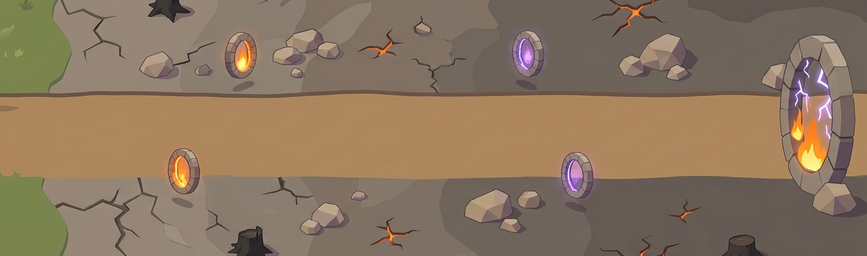
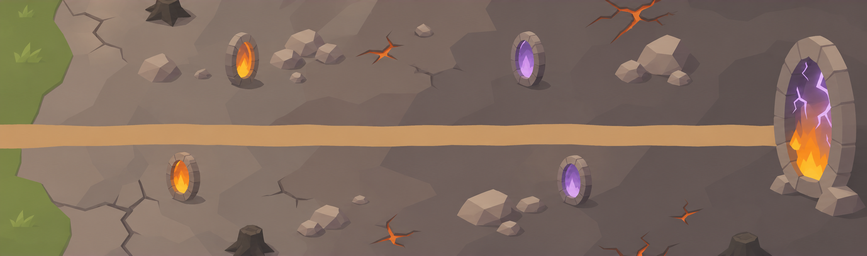
feat(art): 차원문 모험 5단계 지도에 컷페이퍼 아트 적용

diff --git a/.art/PRODUCTION-STATUS.md b/.art/PRODUCTION-STATUS.md
@@ -203,7 +203,7 @@
 | `pve/pve_water_slime_nest.png` | 클라이언트 PR (이슈 #169) | 192x158 RGBA, 원본 캔버스 유지. `PveWaterSlimeNest` 모험 보스. 위와 같은 이유로 다시 그렸다. v1 반려(비 1.59, 옛 1.22 대비 지나치게 낮고 넓음), v2 통과(비 1.21, 폭 99.5%·세로 100%). alignment 7 유지 |
 | `pve/pve_vine_witch.png` | 클라이언트 PR (이슈 #169) | 192x155 RGBA, 원본 캔버스 유지. `PveVineWitch` 모험 보스, 숲의 마녀. 애니메이션풍 인물이라 화풍 자체가 달랐던 것을 다면체 cut-paper 로 다시 그렸다. v1 한 번에 통과 — 빨간 장발·잎 후드·지팡이 실루엣 유지, `facing.py` 기준 눈 중심이 몸통 중심보다 오른쪽(오른쪽 방향 확인). alignment 7 유지 |
 | `Adventure/gate_adventure_icon.png` | 클라이언트 PR (이슈 #232) | **검수 대기, 자리표시 아트.** 차원문 모험(adventure 3) 아이콘, 새 파일이라 `stone_fortress.png` 는 그대로 두고 `GateAdventure.asset` 의 `iconImage` 만 옮겼다. 256x183 RGBA, `agy` 의 `generate_image` 로 초록(#00FF00) 배경에 그려 key 를 제거했다. v1 반려(룬 글자가 새겨졌고 고리 안쪽에 초록이 비쳐 번졌다), v2 통과(룬 없음, 안쪽을 어두운 보라 원판으로 채움). 내용은 세로 183px 전체를 쓰고 폭은 179px 로 옛 256px 보다 좁다 — 옛 아이콘은 가로로 넓은 성이라 비율이 다르다. 4배 확대에서 어두운·밝은 배경 모두 초록 테두리 없음, 불투명 픽셀의 초록 우세 0개 |
-| `Adventure/gate_adventure_map_stage5.png` | 클라이언트 PR (이슈 #232) | **검수 대기, 자리표시 아트.** 차원문 모험 5단계 지도, `Stage5.asset` 의 `backgroundImage` 만 옮겼다. 867x256 RGB 불투명. 생성물이 1376x768 정사각이 아니라 1.79:1 이라 세로 중간 띠 406px(y 170~576)를 잘라 Lanczos 로 867x256 에 맞췄다. 길 중심은 y 약 134(목표 135). 길 두께가 옛 요새 지도보다 두껍다(옛 약 16px, 새 약 80px) — 노드 위치를 Editor 에서 확인해야 한다. v1 반려(어두운 윤곽선이 있다). v2 는 `agy` 가 권한 오류로 끝났지만 그 사이 이미지 3장이 생성돼 있었고, 그중 윤곽선이 없고 색이 평면인 마지막 한 장을 채택했다(나머지 둘은 길이 중앙에서 벗어나거나 색이 번졌다). 윤곽선 없음, 길 위 물체 없음 |
+| `Adventure/gate_adventure_map_stage5.png` | 클라이언트 PR (이슈 #504) | **모험 화면 검수 대기.** 무광 절개면으로 회색 암반을 다시 그리고 불꽃·번개 차원문 다섯 개의 배치를 유지했다. 867×256 RGB, Stage5와 준비 화면 참조 유지. 비교한 가로 단면 6곳에서 길 중심 차이는 최대 2px이고 폭은 기존 79–83px에서 19–21px로 줄었다. |
 | `Adventure/gate_adventure_map_stage6.png` | 클라이언트 PR (이슈 #232) | **검수 대기, 자리표시 아트.** 차원문 모험 6단계(보스) 지도, `Stage6.asset` 의 `backgroundImage` 만 옮겼다. 867x256 RGB 불투명. 위와 같은 방식으로 잘랐다. v1 반려(윤곽선이 있고 줄기가 잘렸다), v2 통과(윤곽선 없음, 오른쪽 끝의 그을린 속 빈 그루터기와 균열의 주황 빛, 길 양옆 차원문 고리 둘) |
 | `Background/Gate/background.png` | 클라이언트 PR (이슈 #235) | **검수 대기, 자리표시 아트.** 차원문 모험(adventure 3) 전투 배경 theme 의 새 파일(`Background/Fortress/background.png` 와 같은 이름·크기). 1254x1254 RGB 바닥 질감. 그을린 갈라진 땅, 대비를 0.62배로 낮췄고 가장자리를 섞어 이어 붙여도 이음매가 안 보이게 했다. `GateBattleTheme.asset` 이 참조하고 `GateAdventure.asset` 의 `battleTheme` 이 이 asset 을 가리킨다. `agy` 생성, 초록 배경 key 제거. Editor 미검증 |
 | `Background/Gate/tree_1.png` | 클라이언트 PR (이슈 #235) | **검수 대기, 자리표시 아트.** 차원문 모험(adventure 3) 전투 배경 theme 의 새 파일(`Background/Fortress/tree_1.png` 와 같은 이름·크기). 277x242 RGBA, 꺾인 탄 줄기. `GateBattleTheme.asset` 이 참조하고 `GateAdventure.asset` 의 `battleTheme` 이 이 asset 을 가리킨다. `agy` 생성, 초록 배경 key 제거. Editor 미검증 |
